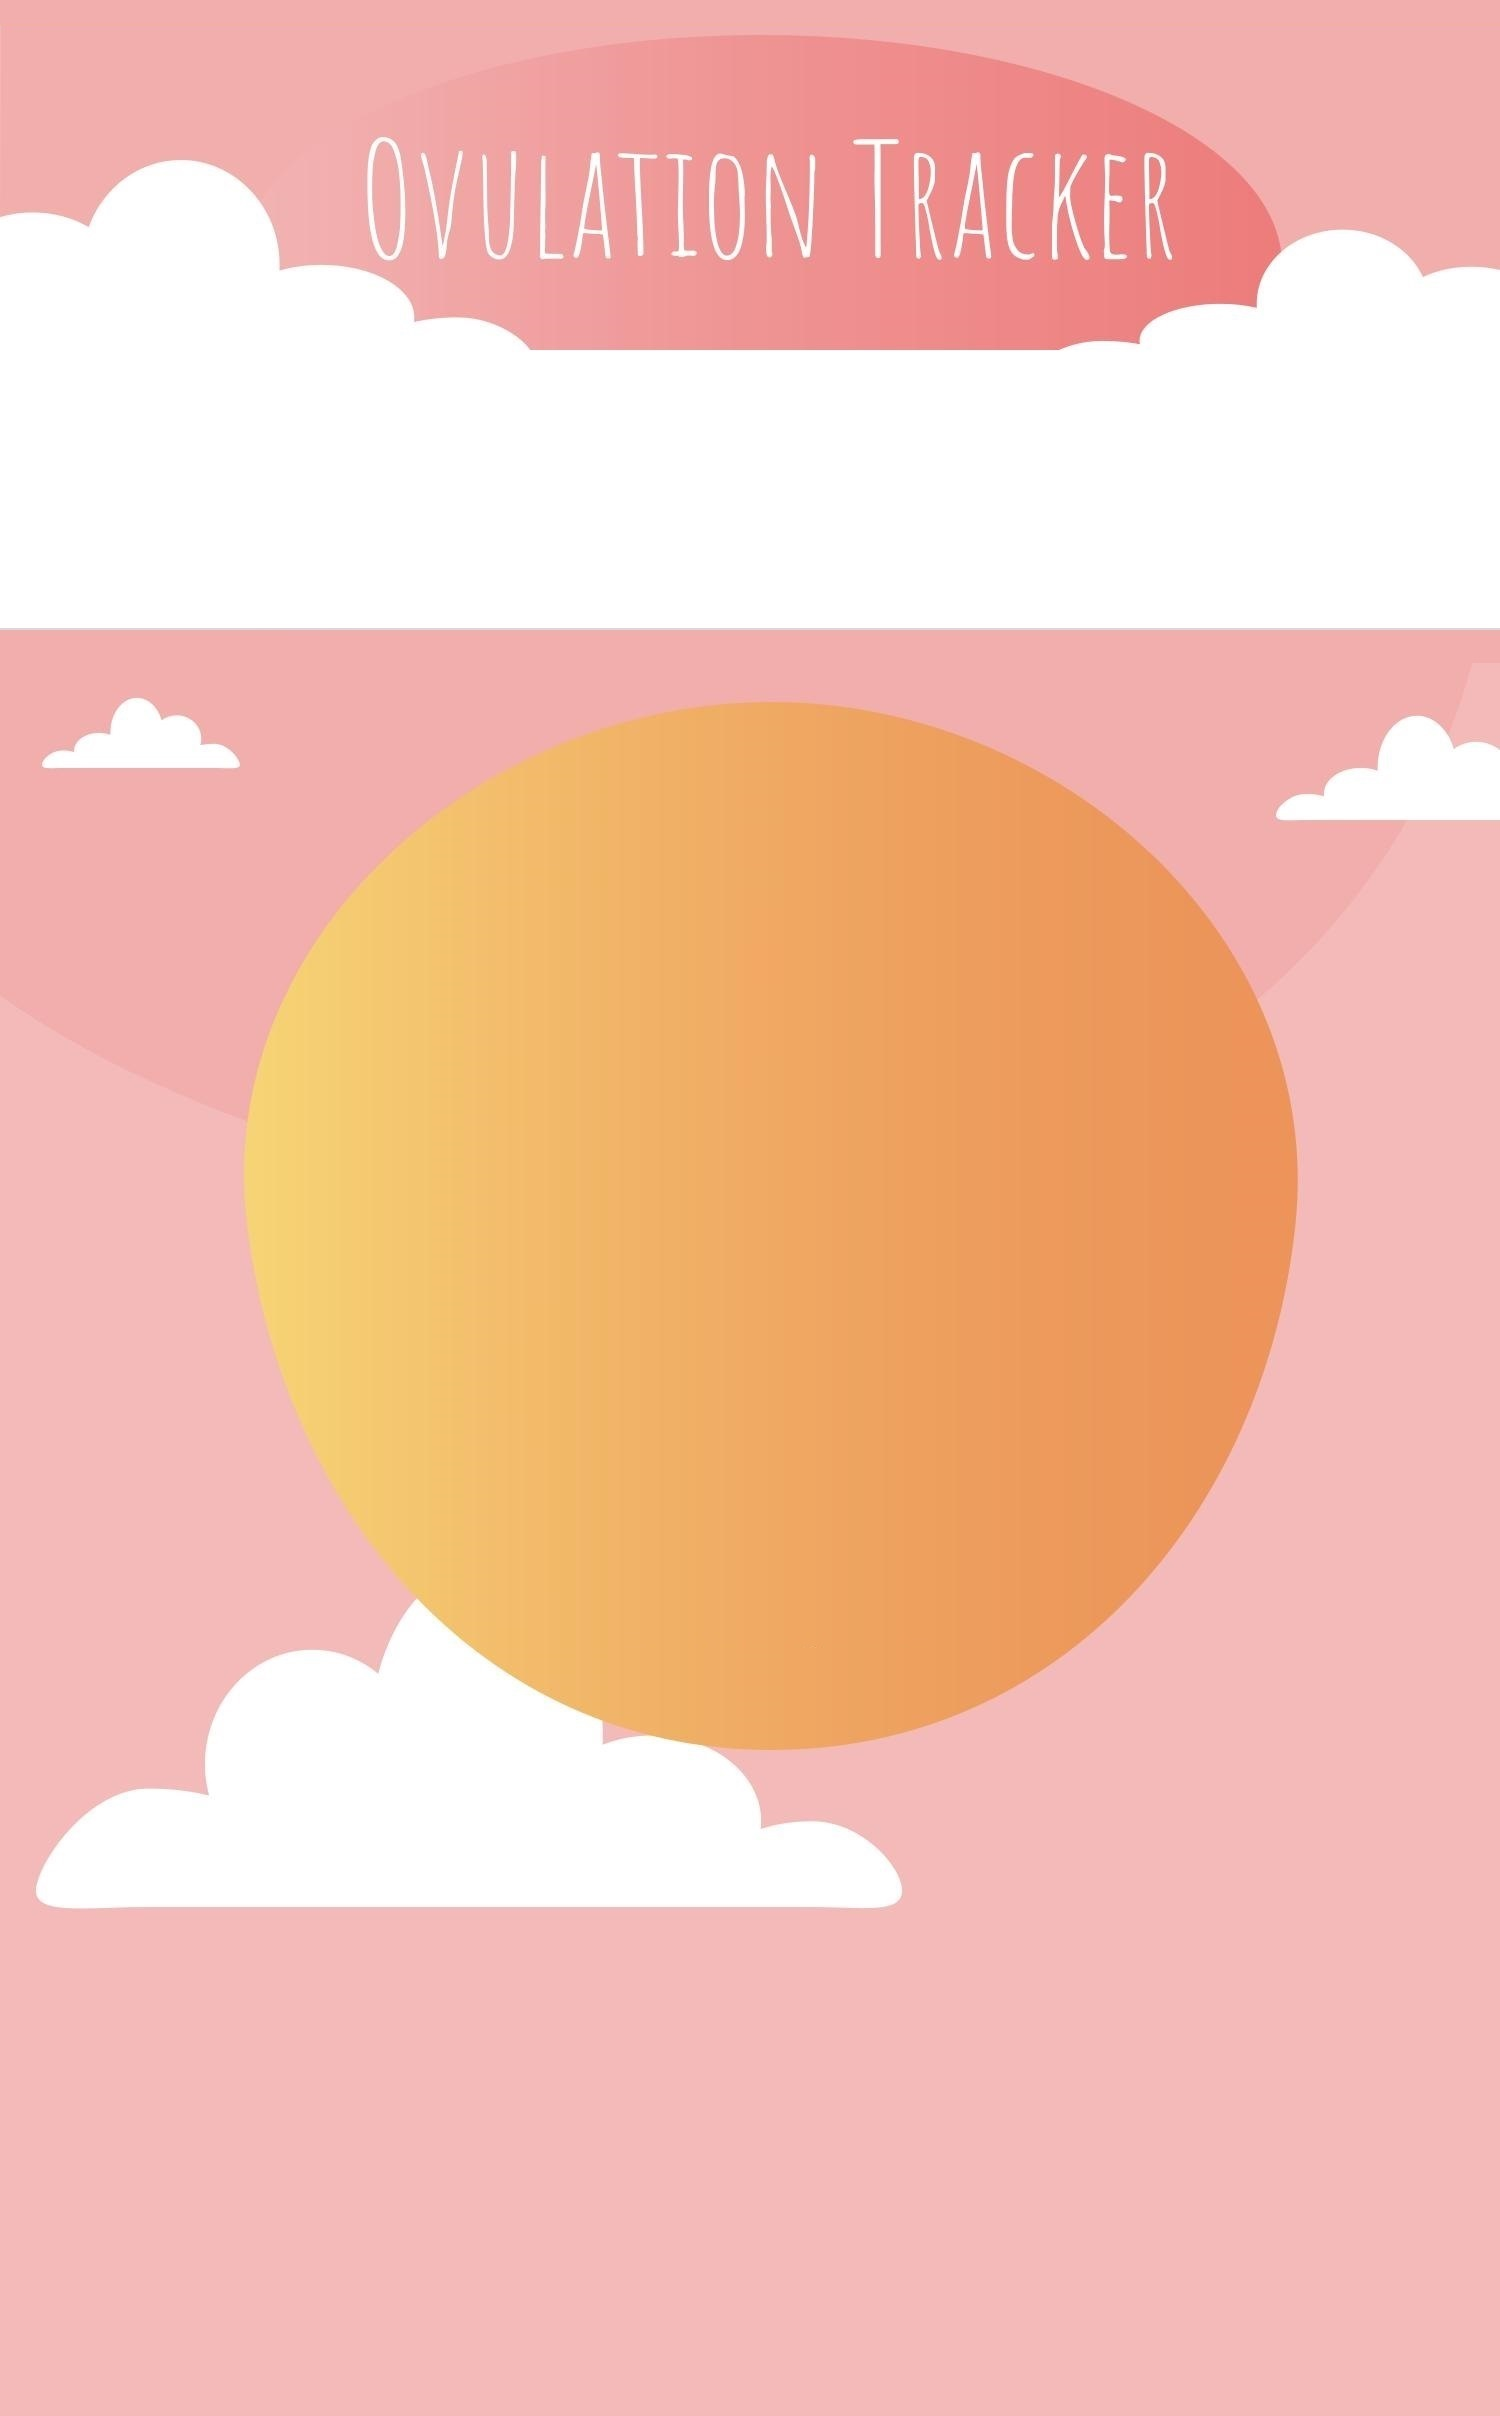
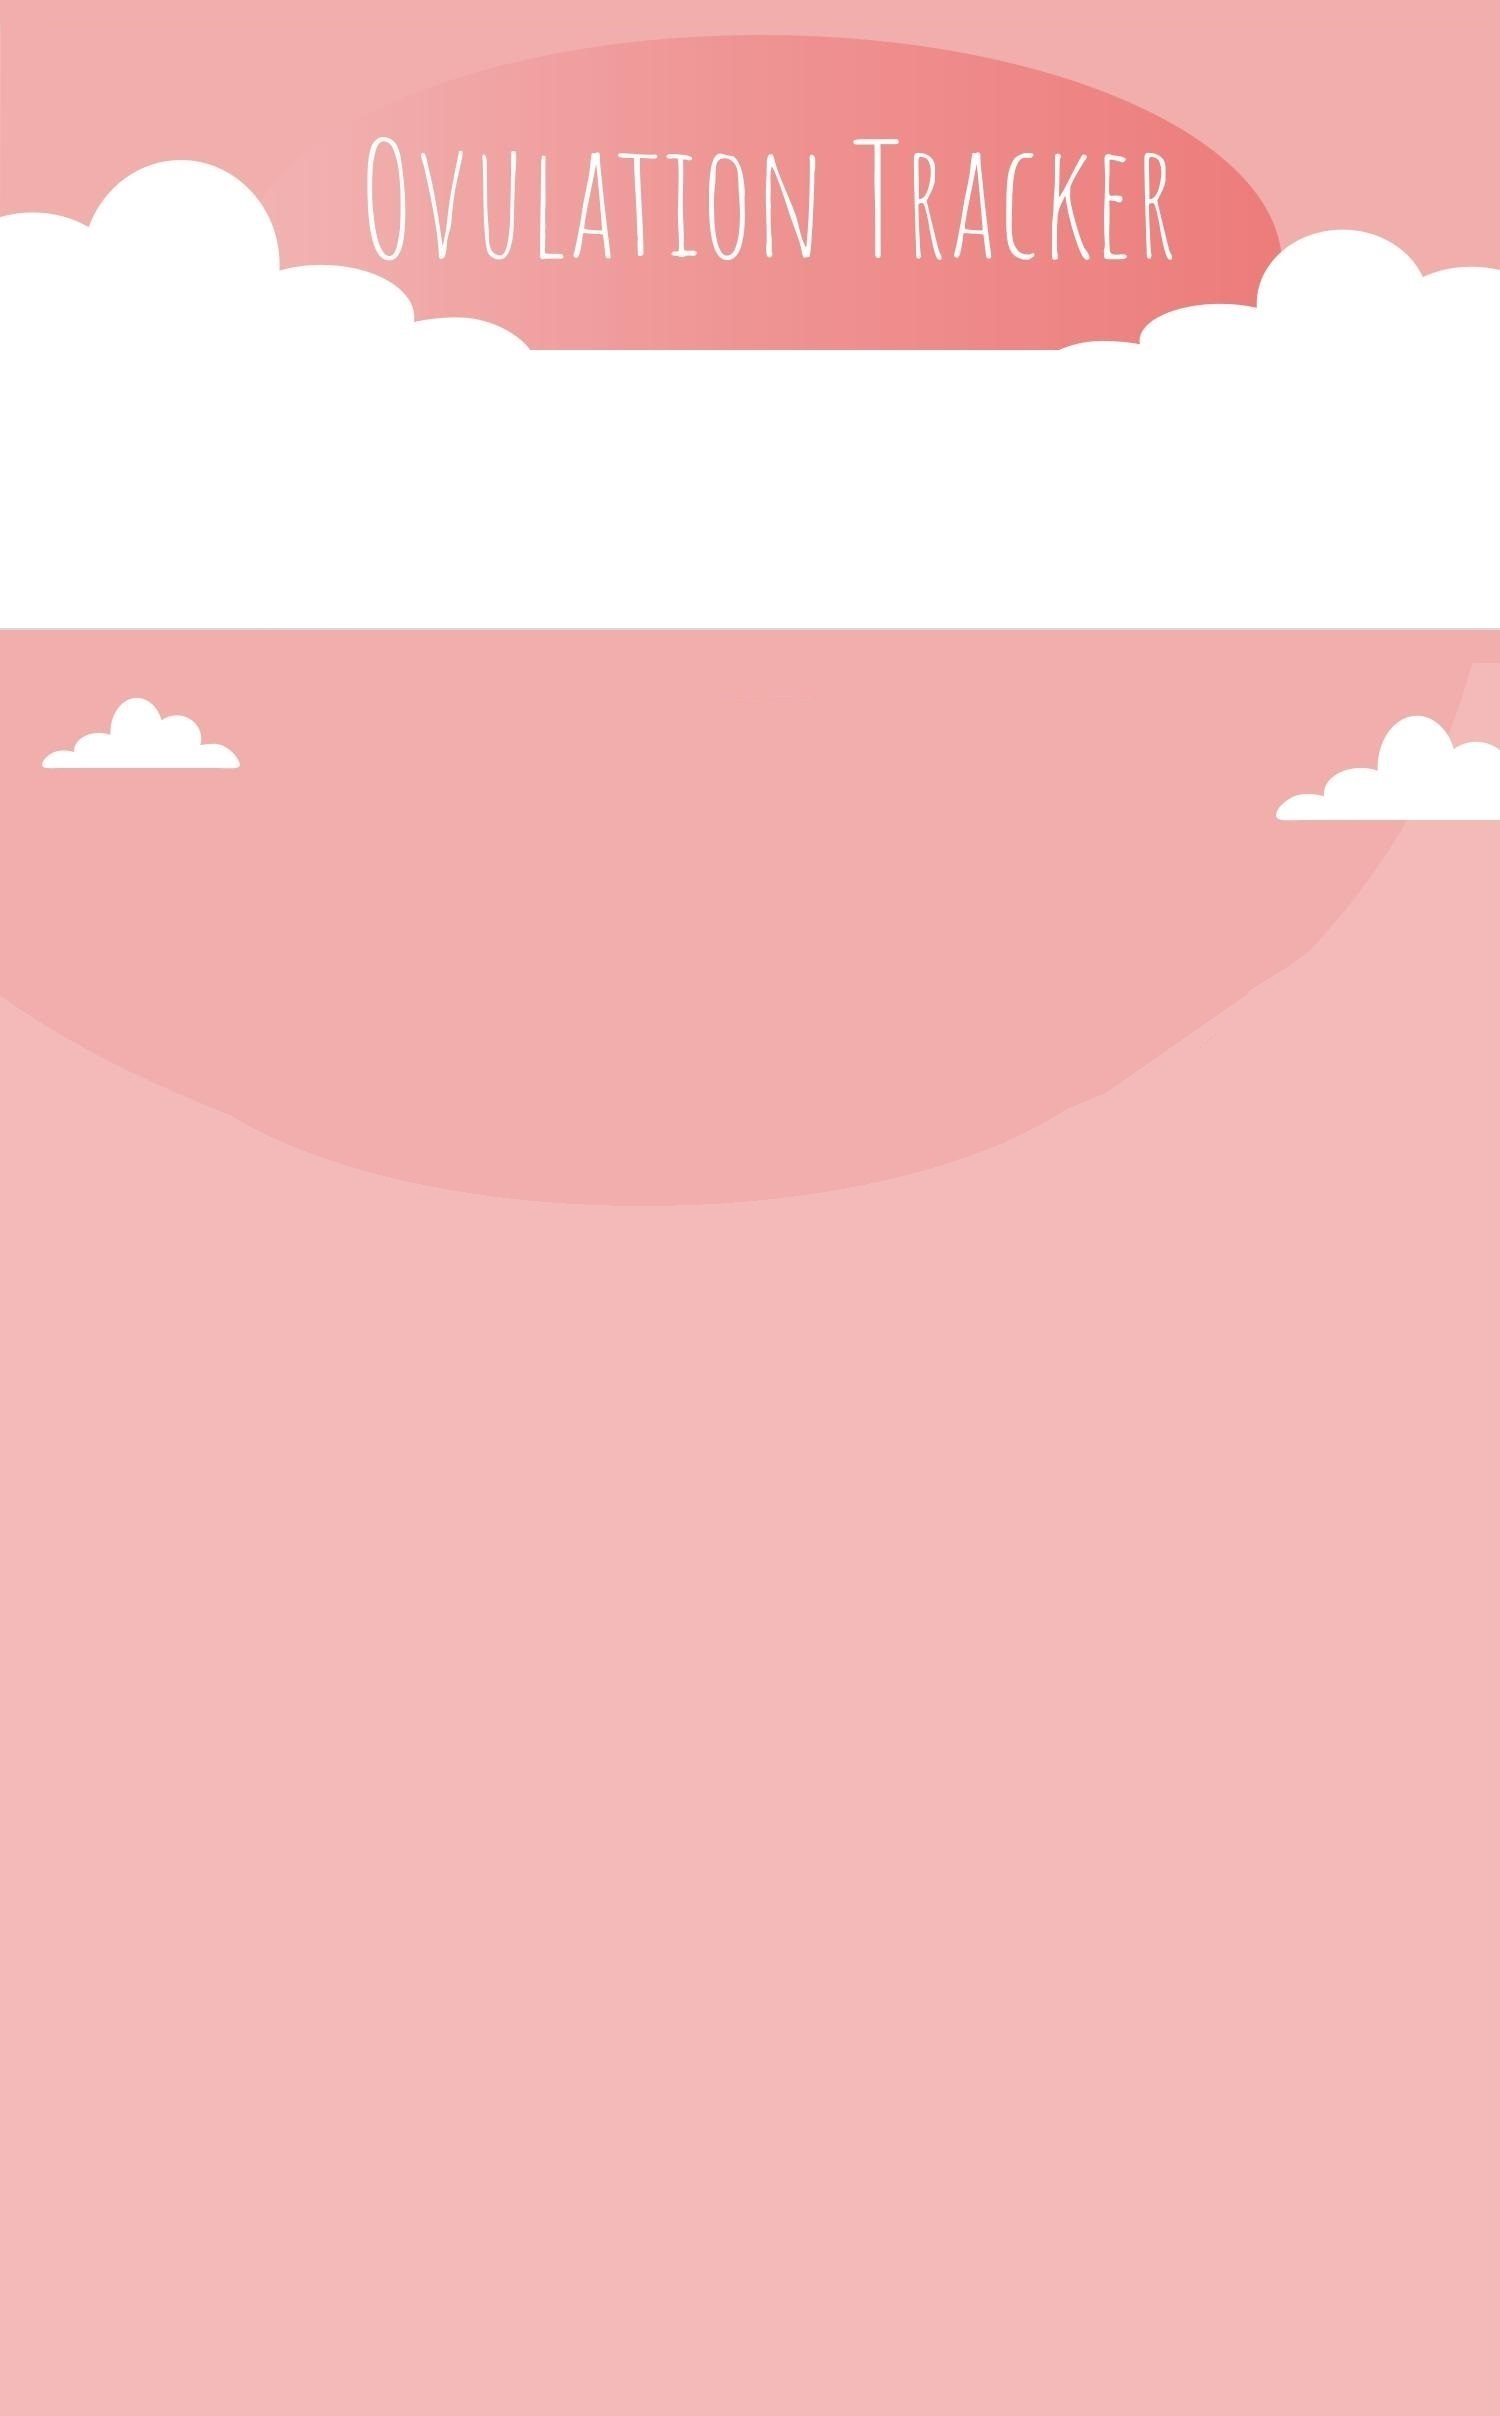
graph page alpha done

Changed region(s): [[0.0307, 0.2794, 0.8893, 0.8071]]

diff --git a/src/ovulationTracker.js b/src/ovulationTracker.js
@@ -4,10 +4,22 @@ import {  Image,  PixelRatio,  StyleSheet,  Text,  TouchableOpacity,TouchableWit
 import { Dimensions } from 'react-native';
 
 import LinearGradient from 'react-native-linear-gradient';
-
+import {
+  LineChart,
+  BarChart,
+  PieChart,
+  ProgressChart,
+  ContributionGraph,
+  StackedBarChart
+} from 'react-native-chart-kit';
 
 const { height } = Dimensions.get('window');
 const { width } = Dimensions.get('window');
+
+
+
+
+
 
 export default class  Ovu extends React.Component {
 
@@ -50,7 +62,8 @@ export default class  Ovu extends React.Component {
       width: "0%",
       heart:"0%",
       label:"none",
-      sex:"none"
+      sex:"none",
+      data:[0.4, 0.6, 0.8]
     };
     this.items = [
       'Goa',
@@ -181,6 +194,35 @@ export default class  Ovu extends React.Component {
       </TouchableWithoutFeedback>
       <Text  style={{  position:"absolute" ,  width:"32%",height:"13%" ,top:"93%" ,left:"68%",color:"white" }}> {this.state.sex} </Text>
 
+
+      <ProgressChart
+        data={{
+          labels: ["ovulation" ], // optional
+          data: [0.1 ]
+        }}
+        width={316}
+        height={316}
+        strokeWidth={16}
+        radius={150}
+        chartConfig={{
+          backgroundGradientFrom: "#1E2923",
+          backgroundGradientFromOpacity: 1,
+          backgroundGradientTo: "#08130D",
+          backgroundGradientToOpacity: 1,
+          color: (opacity = 0) => `rgba(0, 255, 0, ${opacity})`,
+          strokeWidth: 0, // optional, default 3
+          barPercentage: 0,
+          useShadowColorFromDataset: false // optional
+        }}
+        hideLegend={true}
+        style={{
+
+
+          position:"absolute",
+          top:"20%",
+          left:"20%"
+        }}
+      />
 
 
 

diff --git a/tabpages/graph.js b/tabpages/graph.js
@@ -54,9 +54,52 @@ export default class Graphing extends Component {
 			        </Separator>
 			      </CollapseHeader>
 			      <CollapseBody  style={{width:"100%"}}>
-			        <ListItem style={{width:"100%"}}>
-		          	<Text>energy tracker</Text>
-							</ListItem>
+
+						<ListItem style={{width:"100%"}}>
+							<Collapse>
+								<CollapseHeader>
+									<Separator bordered>
+									<Text>lifestyle</Text>
+									</Separator>
+								</CollapseHeader>
+								<CollapseBody>
+											<LineChart
+											data={{
+												labels: [
+													'January',
+													'February',
+													'March',
+													'April',
+													'May',
+													'June',
+												],
+												datasets: [
+													{
+														data: [20, 45, 28, 80, 99, 43],
+														strokeWidth: 2,
+													},
+												],
+											}}
+											width={Dimensions.get('window').width - 16}
+											height={220}
+											chartConfig={{
+												backgroundColor: '#1cc910',
+												backgroundGradientFrom: '#eff3ff',
+												backgroundGradientTo: '#efefef',
+												decimalPlaces: 2,
+												color: (opacity = 1) => `rgba(0, 0, 0, ${opacity})`,
+												style: {
+													borderRadius: 16,
+												},
+											}}
+											style={{
+												marginVertical: 8,
+												borderRadius: 16,
+											}}
+											/>
+									</CollapseBody>
+							</Collapse>
+						</ListItem>
 
 							<ListItem style={{width:"100%"}}>
 		          	<Text>journal</Text>
